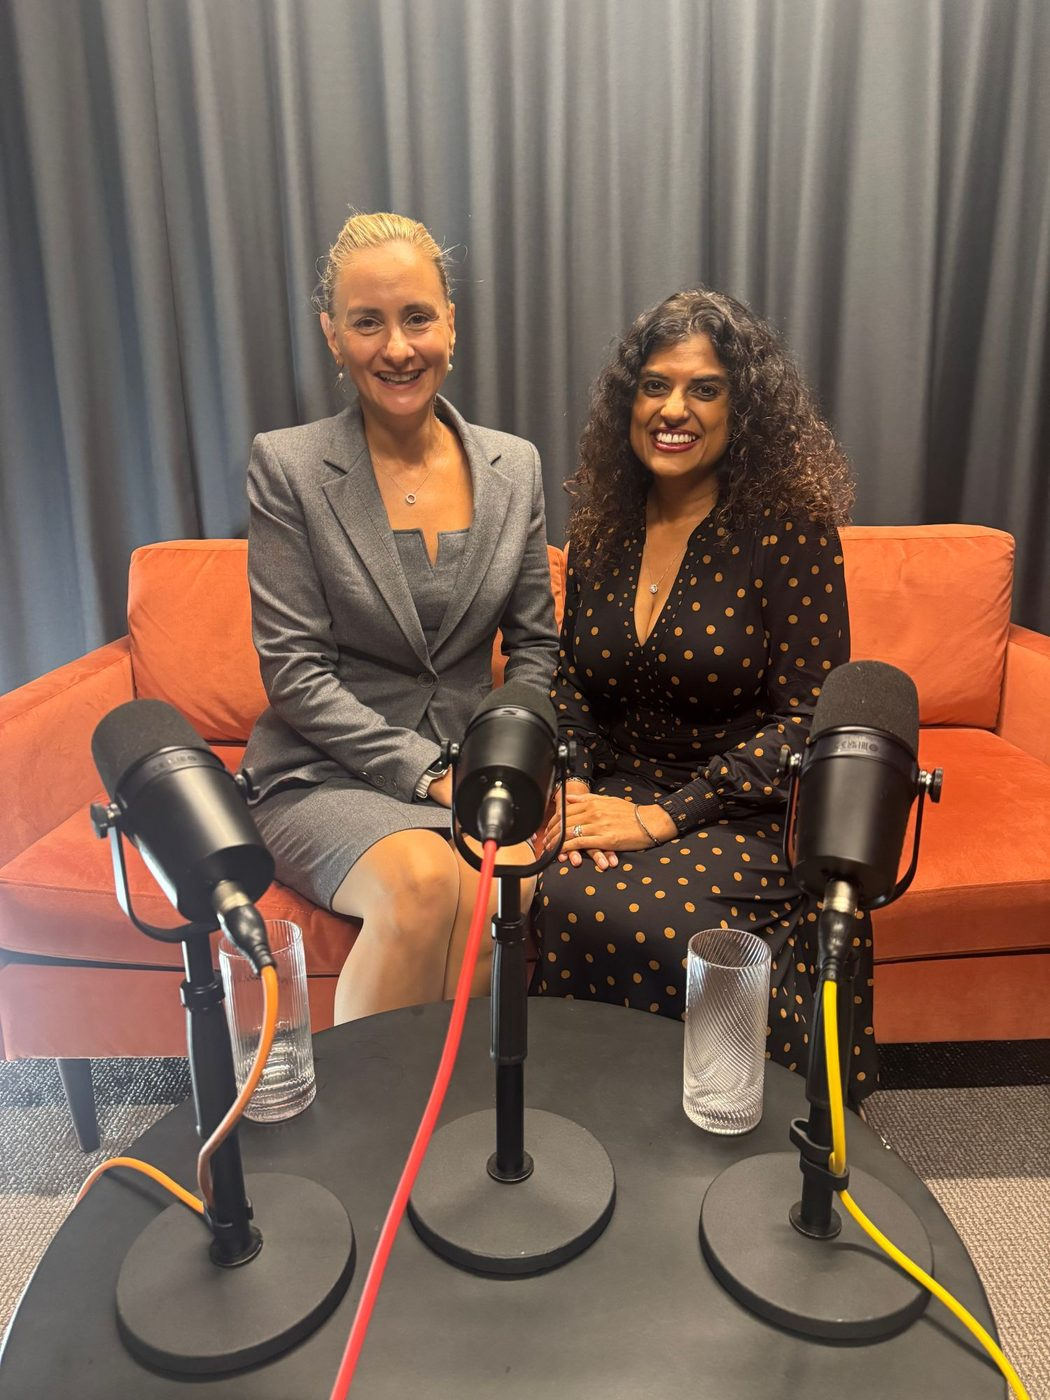
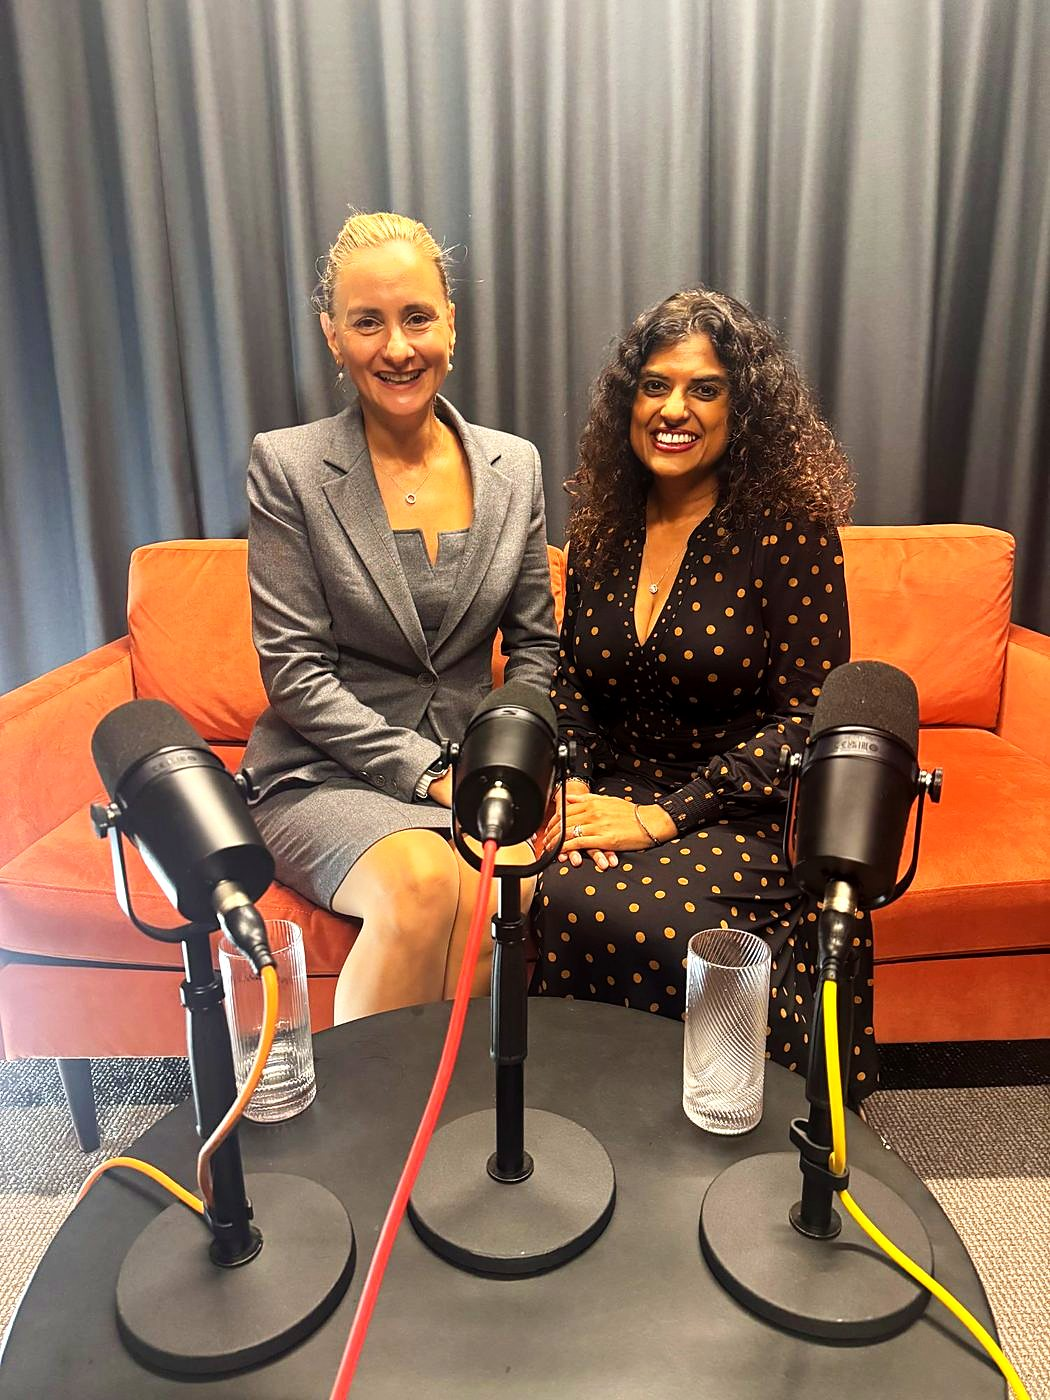
Improve photo contrast and keep originals
Adds tools/enhance_photos.py, which applies a consistent tone adjustment to the
site photos from the untouched originals in assets/img/source/. The portrait
gets a gentler treatment. The PDF is regenerated with the new portrait.

Claude-Session: https://claude.ai/code/session_01KeMQPxQAePKPhBasHgN3GA

diff --git a/tools/enhance_photos.py b/tools/enhance_photos.py
@@ -1,0 +1,57 @@
+#!/usr/bin/env python3
+"""Gentle, consistent tone adjustment for the site photos.
+
+Reads the untouched originals in assets/img/source/ and writes the versions the site uses to assets/img/.
+Originals are never modified, so you can change the settings below and re-run, or drop a hand-edited
+file (for example from Canva) straight into assets/img/ and remove that name from PHOTOS.
+
+
+    pip install pillow numpy
+    python3 tools/enhance_photos.py
+"""
+from pathlib import Path
+import numpy as np
+from PIL import Image, ImageEnhance, ImageFilter, ImageOps
+
+ROOT = Path(__file__).resolve().parent.parent
+SRC, DST = ROOT / "assets/img/source", ROOT / "assets/img"
+# Per-photo overrides of the settings below. The studio photos are dim phone shots and take the full treatment;
+# the portrait is already colourful, so it gets a much lighter touch.
+PHOTOS = {
+    "studio-wide": {}, "studio-behind-the-scenes": {}, "conversation-pair": {}, "group-of-four": {},
+    "guests-pair-portrait": {},
+    "nara": {"cutoff": 0.05, "contrast": 0.18, "saturation": 0.97, "sharpen": 35},
+}
+
+CUTOFF = 0.4      # % of darkest and brightest pixels clipped when stretching the range
+CONTRAST = 0.40   # strength of the S-curve (0 = none, 1 = strong)
+TARGET_MEAN = 0.46  # dim photos are lifted towards this average brightness
+SATURATION = 1.08
+SHARPEN = 55      # unsharp mask percent
+
+
+def enhance(im, cutoff=CUTOFF, contrast=CONTRAST, saturation=SATURATION, sharpen=SHARPEN):
+    im = ImageOps.autocontrast(im.convert("RGB"), cutoff=cutoff, preserve_tone=True)
+    x = np.asarray(im, dtype=np.float32) / 255.0
+    lum = (0.2126 * x[..., 0] + 0.7152 * x[..., 1] + 0.0722 * x[..., 2]).mean()
+    if lum < TARGET_MEAN:                      # lift only when the photo is dim
+        gamma = max(0.78, float(np.log(TARGET_MEAN) / np.log(max(lum, 1e-3))))
+        x = x ** gamma
+    smooth = x * x * (3 - 2 * x)               # S-curve: deeper darks, brighter lights
+    x = x * (1 - contrast) + smooth * contrast
+    im = Image.fromarray((np.clip(x, 0, 1) * 255 + 0.5).astype(np.uint8))
+    im = ImageEnhance.Color(im).enhance(saturation)
+    return im.filter(ImageFilter.UnsharpMask(radius=1.2, percent=sharpen, threshold=2))
+
+
+def stats(im):
+    a = np.asarray(im.convert("L"), dtype=np.float32) / 255
+    return f"mean {a.mean():.2f}  spread(p5-p95) {np.percentile(a, 95) - np.percentile(a, 5):.2f}"
+
+
+if __name__ == "__main__":
+    for name, opts in PHOTOS.items():
+        src = Image.open(SRC / f"{name}.jpg")
+        out = enhance(src, **opts)
+        out.save(DST / f"{name}.jpg", quality=84, optimize=True, progressive=True)
+        print(f"{name:26s} before: {stats(src)}   after: {stats(out)}")

diff --git a/README.md b/README.md
@@ -70,6 +70,14 @@ the footer. It leads with the quality of the guests. To name some of them, add e
 `photo` and `url` are optional. Once there is at least one entry, a "Some of our guests" block appears on the media
 kit and the Guests page; until then nothing shows. Only list guests who have agreed to be named and pictured.
 
+### Photos
+
+The site's photos in `assets/img/` are tone-adjusted copies of the untouched originals in `assets/img/source/`
+(brighter, more contrast, slightly richer colour). To change the look, edit the settings in `tools/enhance_photos.py`
+and run it. To add a photo, put the original in `assets/img/source/`, add its name to `PHOTOS` in the script and run it.
+If you edit a photo by hand (for example in Canva), save the finished file into `assets/img/` and remove its name from
+`PHOTOS`, so the script doesn't overwrite it.
+
 ### One-page PDF
 
 `assets/downloads/the-dokkcast-media-kit.pdf` is a designed A4 summary of the media kit, linked from the media kit and
